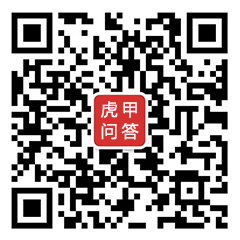
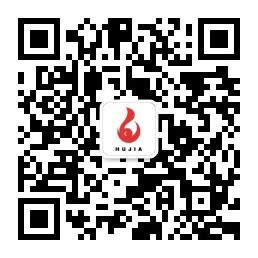
修改网站title，替换二维码

diff --git a/web/static/js/page/common.js b/web/static/js/page/common.js
@@ -149,7 +149,7 @@
 			!search ? utils.msg('请输入搜索关键词') : window.location.href = "/lawyer.html?keyword=" + search;
 		},
 		login: function (eb) {
-			var html = '<div class="eqcodebox"><p>请用微信扫码登录，测试版，实际上会跳到微信的二维码页面<b class="layui-layer-close">X</b></p><img src="/static/images/eqcode_240.png" width="244"></div><p style="text-align:center; margin-top:10px;" class="showTestCount">登录倒计时：3</p>';
+			var html = '<div class="eqcodebox"><p>请用微信扫码登录，测试版，实际上会跳到微信的二维码页面<b class="layui-layer-close">X</b></p><img src="/static/images/eqcode_240.png?_=1" width="244"></div><p style="text-align:center; margin-top:10px;" class="showTestCount">登录倒计时：3</p>';
 
 			var ops = {
 				type: 1,
@@ -184,7 +184,7 @@
 			utils.dialog(ops);
 		},
 		eqcodew: function () {
-			var html = '<div class="eqcodebox"><p style="font-size:12px;">关注虎甲问答，立即获取100元法律咨询优惠券<b class="layui-layer-close">X</b></p><img src="/static/images/eqcode_240.png" width="244"><h4>扫码立即微信咨询</h4></div>';
+			var html = '<div class="eqcodebox"><p style="font-size:12px;">关注虎甲问答，立即获取100元法律咨询优惠券<b class="layui-layer-close">X</b></p><img src="/static/images/eqcode_240.png?_=1" width="244"><h4>扫码立即微信咨询</h4></div>';
 
 			var ops = {
 				type: 1,
@@ -197,7 +197,7 @@
 			utils.dialog(ops);
 		},
 		eqService: function () {
-			var html = '<div class="eqcodebox"><p style="font-size:18px;">客服电话：' + global.tel + '<b class="layui-layer-close" style=" font-size:12px;">X</b></p><img src="/static/images/eqcode_240.png" width="244"><h4>扫码添加客服微信咨询</h4></div>';
+			var html = '<div class="eqcodebox"><p style="font-size:18px;">客服电话：' + global.tel + '<b class="layui-layer-close" style=" font-size:12px;">X</b></p><img src="/static/images/eqcode_240.png?_=1" width="244"><h4>扫码添加客服微信咨询</h4></div>';
 
 			var ops = {
 				type: 1,

diff --git a/web/static/js/common/common.js b/web/static/js/common/common.js
@@ -355,7 +355,7 @@
 			}
 		},
 		login: function (eb) {
-			var html = '<div class="eqcodebox"><p>请用微信扫码登录，测试版，实际上会跳到微信的二维码页面<b class="layui-layer-close">X</b></p><img src="/static/images/eqcode_240.png" width="244"></div><p style="text-align:center; margin-top:10px;" class="showTestCount">登录倒计时：3</p>';
+			var html = '<div class="eqcodebox"><p>请用微信扫码登录，测试版，实际上会跳到微信的二维码页面<b class="layui-layer-close">X</b></p><img src="/static/images/eqcode_240.png?_=1" width="244"></div><p style="text-align:center; margin-top:10px;" class="showTestCount">登录倒计时：3</p>';
 
 			var ops = {
 				type: 1,
@@ -390,7 +390,7 @@
 			utils.dialog(ops);
 		},
 		eqcodew: function () {
-			var html = '<div class="eqcodebox"><p style="font-size:12px;">关注虎甲问答，立即获取100元法律咨询优惠券<b class="layui-layer-close">X</b></p><img src="/static/images/eqcode_240.png" width="244"><h4>扫码立即微信咨询</h4></div>';
+			var html = '<div class="eqcodebox"><p style="font-size:12px;">关注虎甲问答，立即获取100元法律咨询优惠券<b class="layui-layer-close">X</b></p><img src="/static/images/eqcode_240.png?_=1" width="244"><h4>扫码立即微信咨询</h4></div>';
 
 			var ops = {
 				type: 1,
@@ -403,7 +403,7 @@
 			utils.dialog(ops);
 		},
 		eqService: function () {
-			var html = '<div class="eqcodebox"><p style="font-size:18px;">客服电话：' + global.tel + '<b class="layui-layer-close" style=" font-size:12px;">X</b></p><img src="/static/images/eqcode_240.png" width="244"><h4>扫码添加客服微信咨询</h4></div>';
+			var html = '<div class="eqcodebox"><p style="font-size:18px;">客服电话：' + global.tel + '<b class="layui-layer-close" style=" font-size:12px;">X</b></p><img src="/static/images/eqcode_240.png?_=1" width="244"><h4>扫码添加客服微信咨询</h4></div>';
 
 			var ops = {
 				type: 1,

diff --git a/web/order.html b/web/order.html
@@ -9,7 +9,7 @@
 		content="width=device-width, initial-scale=1.0, minimum-scale=1.0, maximum-scale=1.0, user-scalable=0">
 	<link rel="icon" href="/static/images/favicon.ico" />
 	<link rel="shortcut icon" href="/static/images/favicon.ico" />
-	<title>虎甲问答官网-3-5分钟快速解答您的法律问题</title>
+	<title>虎甲问答官网-虎甲在线，有问必答</title>
 	<meta name="keywords" content="免费法律咨询,律师在线咨询免费,免费律师咨询,在线律师咨询,在线律师咨询,虎甲问答" />
 	<meta name="description"
 		content="虎甲问答-3-5分钟100%解答您的法律问题,律师在线提供免费法律咨询,律师在线咨询免费解答,在线律师咨询,24小时律师在线免费咨询,全国法律援助热线：400-618-8116。" />
@@ -73,7 +73,7 @@
 		<p class="successInfo hidden">恭喜您！您已提交成功，<span class="lawyerHtml"></span>，请及时留意信息通知。</p>
 		<p>扫码公众号二维码，第一时间掌握信息回复。</p>
 		<div class="paySuccessQr">
-			<img src="static/images/eqcode_240.png" />
+			<img src="static/images/eqcode_240.png?_=1" />
 		</div>
 		<div class="layui-form">
 			<div class="layui-form-item tac">
@@ -86,7 +86,7 @@
 		<div class="widthCC overflowh">
 			<div class="btm_lft flt">
 				<img src="/static/images/logo_btm.png" alt="">
-				<div class="btm_eq"><img src="/static/images/eqcode_240.png" alt="">
+				<div class="btm_eq"><img src="/static/images/eqcode_240.png?_=1" alt="">
 				</div>
 			</div>
 			<div class="btm_rt">

diff --git a/web/lawyer/waitAuth.html b/web/lawyer/waitAuth.html
@@ -9,7 +9,7 @@
 		content="width=device-width, initial-scale=1.0, minimum-scale=1.0, maximum-scale=1.0, user-scalable=0">
 	<link rel="icon" href="/static/images/favicon.ico" />
 	<link rel="shortcut icon" href="/static/images/favicon.ico" />
-	<title>虎甲问答官网-3-5分钟快速解答您的法律问题</title>
+	<title>虎甲问答官网-虎甲在线，有问必答</title>
 	<meta name="keywords" content="免费法律咨询,律师在线咨询免费,免费律师咨询,在线律师咨询,在线律师咨询,虎甲问答" />
 	<meta name="description"
 		content="虎甲问答-3-5分钟100%解答您的法律问题,律师在线提供免费法律咨询,律师在线咨询免费解答,在线律师咨询,24小时律师在线免费咨询,全国法律援助热线：400-618-8116。" />
@@ -34,7 +34,7 @@
 	<div class="widthCC regPage authPage">
 		<div class="regTit">等待审核</div>
 		<div class="eqcodebox">
-			<img src="/static/images/eqcode_240.png" width="244">
+			<img src="/static/images/eqcode_240.png?_=1" width="244">
 		</div>
 		<p style="text-align:center; margin-top:10px;" class="showTestCount">扫码公众号二维码，第一时间掌握信息回复。跳转倒计时（测试用）：<em>3</em></p>
 	</div>

diff --git a/web/user.html b/web/user.html
@@ -8,7 +8,7 @@
 	<meta name="viewport" content="width=device-width, initial-scale=1.0, minimum-scale=1.0, maximum-scale=1.0, user-scalable=0">
 	<link rel="icon" href="/static/images/favicon.ico" />
 	<link rel="shortcut icon" href="/static/images/favicon.ico" />
-	<title>虎甲问答官网-3-5分钟快速解答您的法律问题</title>
+	<title>虎甲问答官网-虎甲在线，有问必答</title>
 	<meta name="keywords" content="免费法律咨询,律师在线咨询免费,免费律师咨询,在线律师咨询,在线律师咨询,虎甲问答" />
 	<meta name="description" content="虎甲问答-3-5分钟100%解答您的法律问题,律师在线提供免费法律咨询,律师在线咨询免费解答,在线律师咨询,24小时律师在线免费咨询,全国法律援助热线：400-618-8116。" />
 	<link rel="stylesheet" href="/static/js/plugin/layui/css/layui.css" />
@@ -47,7 +47,7 @@
 		<div class="widthCC overflowh">
 			<div class="btm_lft flt">
 				<img src="/static/images/logo_btm.png" alt="">
-				<div class="btm_eq"><img src="/static/images/eqcode_240.png" alt="">
+				<div class="btm_eq"><img src="/static/images/eqcode_240.png?_=1" alt="">
 				</div>
 			</div>
 			<div class="btm_rt">

diff --git a/web/about.html b/web/about.html
@@ -9,7 +9,7 @@
 		content="width=device-width, initial-scale=1.0, minimum-scale=1.0, maximum-scale=1.0, user-scalable=0">
 	<link rel="icon" href="/static/images/favicon.ico" />
 	<link rel="shortcut icon" href="/static/images/favicon.ico" />
-	<title>虎甲问答官网-3-5分钟快速解答您的法律问题</title>
+	<title>虎甲问答官网-虎甲在线，有问必答</title>
 	<meta name="keywords" content="免费法律咨询,律师在线咨询免费,免费律师咨询,在线律师咨询,在线律师咨询,虎甲问答" />
 	<meta name="description"
 		content="虎甲问答-3-5分钟100%解答您的法律问题,律师在线提供免费法律咨询,律师在线咨询免费解答,在线律师咨询,24小时律师在线免费咨询,全国法律援助热线：400-618-8116。" />
@@ -190,7 +190,7 @@
 		<div class="widthCC overflowh">
 			<div class="btm_lft flt">
 				<img src="/static/images/logo_btm.png" alt="">
-				<div class="btm_eq"><img src="/static/images/eqcode_240.png" alt="">
+				<div class="btm_eq"><img src="/static/images/eqcode_240.png?_=1" alt="">
 				</div>
 			</div>
 			<div class="btm_rt">

diff --git a/web/area.html b/web/area.html
@@ -9,7 +9,7 @@
 		content="width=device-width, initial-scale=1.0, minimum-scale=1.0, maximum-scale=1.0, user-scalable=0">
 	<link rel="icon" href="/static/images/favicon.ico" />
 	<link rel="shortcut icon" href="/static/images/favicon.ico" />
-	<title>虎甲问答官网-3-5分钟快速解答您的法律问题</title>
+	<title>虎甲问答官网-虎甲在线，有问必答</title>
 	<meta name="keywords" content="免费法律咨询,律师在线咨询免费,免费律师咨询,在线律师咨询,在线律师咨询,虎甲问答" />
 	<meta name="description"
 		content="虎甲问答-3-5分钟100%解答您的法律问题,律师在线提供免费法律咨询,律师在线咨询免费解答,在线律师咨询,24小时律师在线免费咨询,全国法律援助热线：400-618-8116。" />
@@ -745,7 +745,7 @@
 		<div class="widthCC overflowh">
 			<div class="btm_lft flt">
 				<img src="/static/images/logo_btm.png" alt="">
-				<div class="btm_eq"><img src="/static/images/eqcode_240.png" alt="">
+				<div class="btm_eq"><img src="/static/images/eqcode_240.png?_=1" alt="">
 				</div>
 			</div>
 			<div class="btm_rt">

diff --git a/web/forget.html b/web/forget.html
@@ -9,7 +9,7 @@
 		content="width=device-width, initial-scale=1.0, minimum-scale=1.0, maximum-scale=1.0, user-scalable=0">
 	<link rel="icon" href="/static/images/favicon.ico" />
 	<link rel="shortcut icon" href="/static/images/favicon.ico" />
-	<title>虎甲问答官网-3-5分钟快速解答您的法律问题</title>
+	<title>虎甲问答官网-虎甲在线，有问必答</title>
 	<meta name="keywords" content="免费法律咨询,律师在线咨询免费,免费律师咨询,在线律师咨询,在线律师咨询,虎甲问答" />
 	<meta name="description"
 		content="虎甲问答-3-5分钟100%解答您的法律问题,律师在线提供免费法律咨询,律师在线咨询免费解答,在线律师咨询,24小时律师在线免费咨询,全国法律援助热线：400-618-8116。" />
@@ -129,7 +129,7 @@
 		<div class="widthCC overflowh">
 			<div class="btm_lft flt">
 				<img src="/static/images/logo_btm.png" alt="">
-				<div class="btm_eq"><img src="/static/images/eqcode_240.png" alt="">
+				<div class="btm_eq"><img src="/static/images/eqcode_240.png?_=1" alt="">
 				</div>
 			</div>
 			<div class="btm_rt">

diff --git a/web/reg.html b/web/reg.html
@@ -9,7 +9,7 @@
 		content="width=device-width, initial-scale=1.0, minimum-scale=1.0, maximum-scale=1.0, user-scalable=0">
 	<link rel="icon" href="/static/images/favicon.ico" />
 	<link rel="shortcut icon" href="/static/images/favicon.ico" />
-	<title>虎甲问答官网-3-5分钟快速解答您的法律问题</title>
+	<title>虎甲问答官网-虎甲在线，有问必答</title>
 	<meta name="keywords" content="免费法律咨询,律师在线咨询免费,免费律师咨询,在线律师咨询,在线律师咨询,虎甲问答" />
 	<meta name="description"
 		content="虎甲问答-3-5分钟100%解答您的法律问题,律师在线提供免费法律咨询,律师在线咨询免费解答,在线律师咨询,24小时律师在线免费咨询,全国法律援助热线：400-618-8116。" />
@@ -189,7 +189,7 @@
 		<div class="widthCC overflowh">
 			<div class="btm_lft flt">
 				<img src="/static/images/logo_btm.png" alt="">
-				<div class="btm_eq"><img src="/static/images/eqcode_240.png" alt="">
+				<div class="btm_eq"><img src="/static/images/eqcode_240.png?_=1" alt="">
 				</div>
 			</div>
 			<div class="btm_rt">

diff --git a/web/declare.html b/web/declare.html
@@ -9,7 +9,7 @@
 		content="width=device-width, initial-scale=1.0, minimum-scale=1.0, maximum-scale=1.0, user-scalable=0">
 	<link rel="icon" href="/static/images/favicon.ico" />
 	<link rel="shortcut icon" href="/static/images/favicon.ico" />
-	<title>虎甲问答官网-3-5分钟快速解答您的法律问题</title>
+	<title>虎甲问答官网-虎甲在线，有问必答</title>
 	<meta name="keywords" content="免费法律咨询,律师在线咨询免费,免费律师咨询,在线律师咨询,在线律师咨询,虎甲问答" />
 	<meta name="description"
 		content="虎甲问答-3-5分钟100%解答您的法律问题,律师在线提供免费法律咨询,律师在线咨询免费解答,在线律师咨询,24小时律师在线免费咨询,全国法律援助热线：400-618-8116。" />
@@ -83,7 +83,7 @@
 		<div class="widthCC overflowh">
 			<div class="btm_lft flt">
 				<img src="/static/images/logo_btm.png" alt="">
-				<div class="btm_eq"><img src="/static/images/eqcode_240.png" alt="">
+				<div class="btm_eq"><img src="/static/images/eqcode_240.png?_=1" alt="">
 				</div>
 			</div>
 			<div class="btm_rt">

diff --git a/web/login.html b/web/login.html
@@ -9,7 +9,7 @@
 		content="width=device-width, initial-scale=1.0, minimum-scale=1.0, maximum-scale=1.0, user-scalable=0">
 	<link rel="icon" href="/static/images/favicon.ico" />
 	<link rel="shortcut icon" href="/static/images/favicon.ico" />
-	<title>虎甲问答官网-3-5分钟快速解答您的法律问题</title>
+	<title>虎甲问答官网-虎甲在线，有问必答</title>
 	<meta name="keywords" content="免费法律咨询,律师在线咨询免费,免费律师咨询,在线律师咨询,在线律师咨询,虎甲问答" />
 	<meta name="description"
 		content="虎甲问答-3-5分钟100%解答您的法律问题,律师在线提供免费法律咨询,律师在线咨询免费解答,在线律师咨询,24小时律师在线免费咨询,全国法律援助热线：400-618-8116。" />
@@ -78,7 +78,7 @@
 		<div class="widthCC overflowh">
 			<div class="btm_lft flt">
 				<img src="/static/images/logo_btm.png" alt="">
-				<div class="btm_eq"><img src="/static/images/eqcode_240.png" alt="">
+				<div class="btm_eq"><img src="/static/images/eqcode_240.png?_=1" alt="">
 				</div>
 			</div>
 			<div class="btm_rt">

diff --git a/web/modelAgreement.html b/web/modelAgreement.html
@@ -9,7 +9,7 @@
 		content="width=device-width, initial-scale=1.0, minimum-scale=1.0, maximum-scale=1.0, user-scalable=0">
 	<link rel="icon" href="/static/images/favicon.ico" />
 	<link rel="shortcut icon" href="/static/images/favicon.ico" />
-	<title>虎甲问答官网-3-5分钟快速解答您的法律问题</title>
+	<title>虎甲问答官网-虎甲在线，有问必答</title>
 	<meta name="keywords" content="免费法律咨询,律师在线咨询免费,免费律师咨询,在线律师咨询,在线律师咨询,虎甲问答" />
 	<meta name="description"
 		content="虎甲问答-3-5分钟100%解答您的法律问题,律师在线提供免费法律咨询,律师在线咨询免费解答,在线律师咨询,24小时律师在线免费咨询,全国法律援助热线：400-618-8116。" />
@@ -90,7 +90,7 @@
 		<div class="widthCC overflowh">
 			<div class="btm_lft flt">
 				<img src="/static/images/logo_btm.png" alt="">
-				<div class="btm_eq"><img src="/static/images/eqcode_240.png" alt="">
+				<div class="btm_eq"><img src="/static/images/eqcode_240.png?_=1" alt="">
 				</div>
 			</div>
 			<div class="btm_rt">
